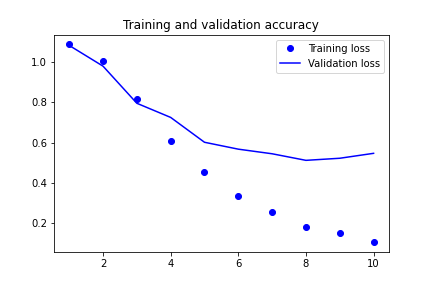
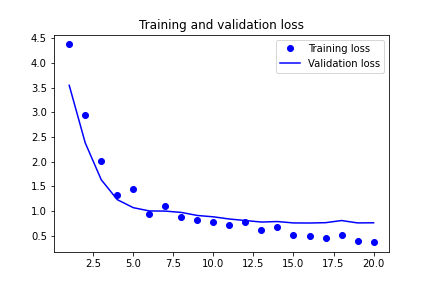
hw5

diff --git a/HW5.0/01-clean_02-train.py b/HW5.0/01-clean_02-train.py
@@ -86,12 +86,13 @@ y_val = to_categorical(y_val, 3)
 
 from keras.models import Sequential
 from keras.layers import Embedding, Flatten, Dense,SimpleRNN, LSTM
+from tensorflow.keras import regularizers
 
 embedding_dim = 100
 
 model = Sequential()
 model.add(Embedding(max_words, 32)) 
-model.add(LSTM(32))
+model.add(LSTM(32,kernel_regularizer=regularizers.l1_l2(0.01,0.01)))
 model.add(Dense(3, activation='softmax'))
 
 model.summary()
@@ -101,7 +102,7 @@ model.compile(optimizer='rmsprop',
               metrics=['acc'])
 
 history = model.fit(x_train, y_train,
-                    epochs=10,
+                    epochs=20,
                     batch_size=32,
                     validation_data=(x_val, y_val))
 
@@ -121,7 +122,7 @@ plt.savefig("training and validation accuracy")
 plt.figure()
 plt.plot(epochs, loss, 'bo', label='Training loss')
 plt.plot(epochs, val_loss, 'b', label='Validation loss')
-plt.title('Training and validation accuracy')
+plt.title('Training and validation loss')
 plt.legend()
 plt.savefig("Training and validation loss")
 
